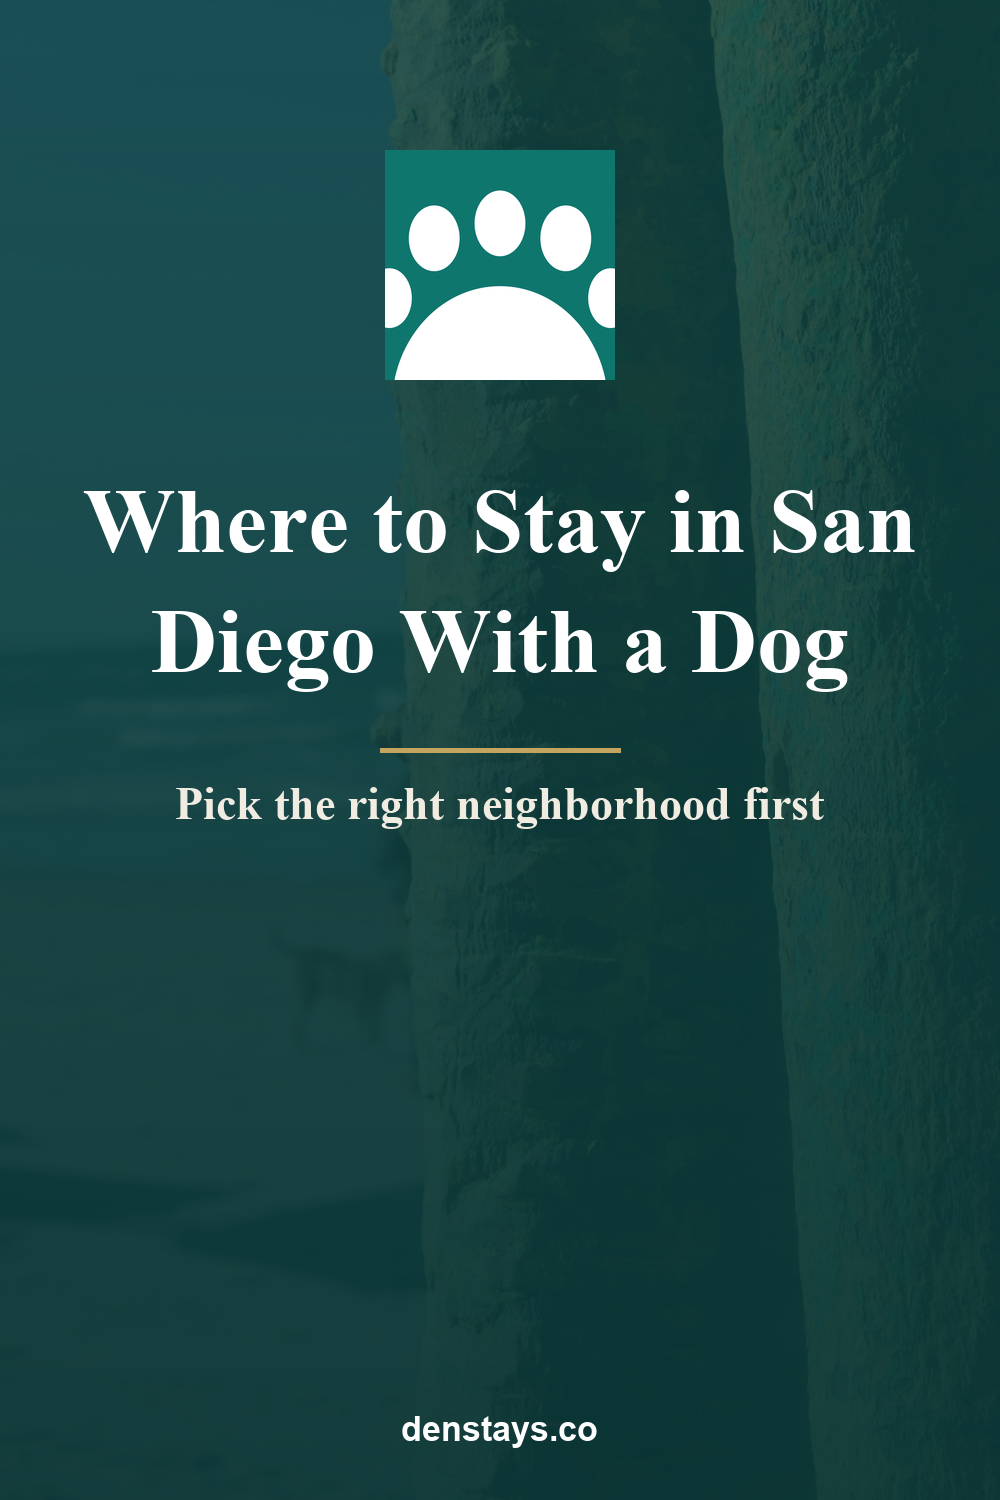
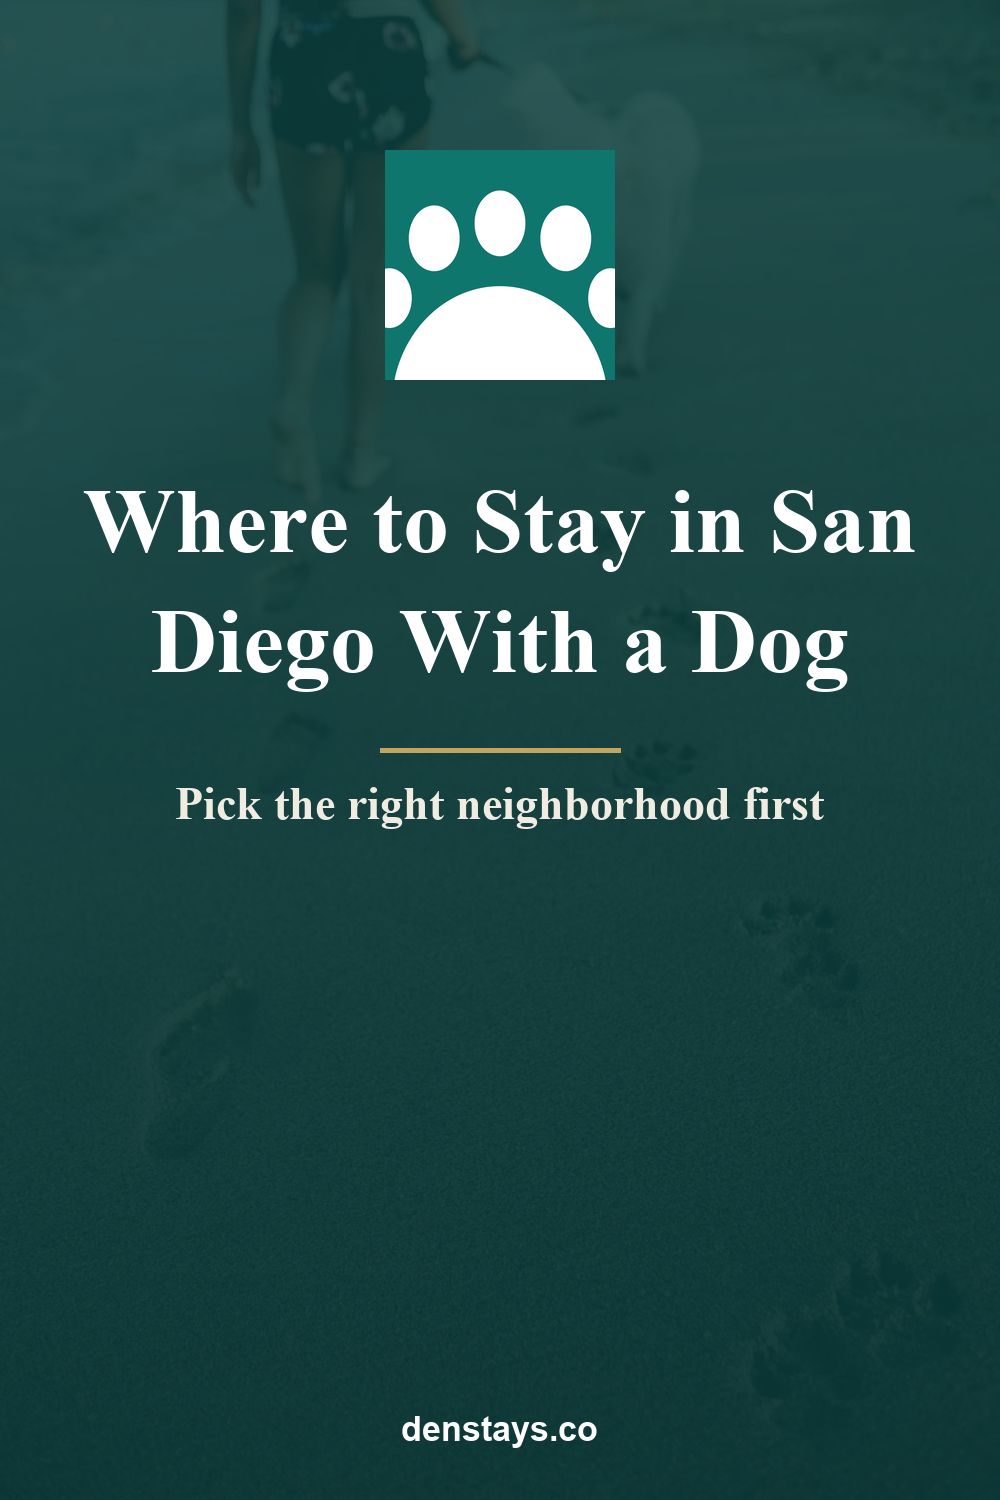
Re-render 3 pins with better photos + update gallery (7 new pins approved)

Changed region(s): [[0.217, 0.0, 0.434, 0.2147], [0.527, 0.0307, 0.713, 0.1227]]

diff --git a/pins/index.html b/pins/index.html
@@ -261,7 +261,7 @@ code { font-size:12px; color:#888; }
         <div class="card">
           <img src="denver-no-fee-no-limit.png" alt="Denver Hotels With No Pet Fee and No Weight Limit">
           <div class="meta">
-            <span class="status" style="background:#c4a560">draft</span>
+            <span class="status" style="background:#2e7d5b">ready</span>
             <span class="type">teal · no-fee-no-weight-limit</span>
             <h3>Denver Hotels With No Pet Fee and No Weight Limit</h3>
             <code>denver-no-fee-no-limit</code>
@@ -270,7 +270,7 @@ code { font-size:12px; color:#888; }
         <div class="card">
           <img src="austin-fee-per-night.png" alt="Austin Hotel Pet Fees: Per Night vs Per Stay">
           <div class="meta">
-            <span class="status" style="background:#c4a560">draft</span>
+            <span class="status" style="background:#2e7d5b">ready</span>
             <span class="type">band · fee-structure</span>
             <h3>Austin Hotel Pet Fees: Per Night vs Per Stay</h3>
             <code>austin-fee-per-night</code>
@@ -279,7 +279,7 @@ code { font-size:12px; color:#888; }
         <div class="card">
           <img src="charleston-weekend.png" alt="A Dog-Friendly Weekend in Charleston">
           <div class="meta">
-            <span class="status" style="background:#c4a560">draft</span>
+            <span class="status" style="background:#2e7d5b">ready</span>
             <span class="type">photo · weekend-trip</span>
             <h3>A Dog-Friendly Weekend in Charleston</h3>
             <code>charleston-weekend</code>
@@ -288,7 +288,7 @@ code { font-size:12px; color:#888; }
         <div class="card">
           <img src="scottsdale-paw-safe.png" alt="Scottsdale With a Dog: Beat the Hot Pavement">
           <div class="meta">
-            <span class="status" style="background:#c4a560">draft</span>
+            <span class="status" style="background:#2e7d5b">ready</span>
             <span class="type">band · seasonal-tips</span>
             <h3>Scottsdale With a Dog: Beat the Hot Pavement</h3>
             <code>scottsdale-paw-safe</code>
@@ -297,7 +297,7 @@ code { font-size:12px; color:#888; }
         <div class="card">
           <img src="san-diego-neighborhoods.png" alt="Where to Stay in San Diego With a Dog">
           <div class="meta">
-            <span class="status" style="background:#c4a560">draft</span>
+            <span class="status" style="background:#2e7d5b">ready</span>
             <span class="type">teal · neighborhood</span>
             <h3>Where to Stay in San Diego With a Dog</h3>
             <code>san-diego-neighborhoods</code>
@@ -306,7 +306,7 @@ code { font-size:12px; color:#888; }
         <div class="card">
           <img src="bend-lakes.png" alt="Pet-Friendly Bend Hotels Near Lakes and Trails">
           <div class="meta">
-            <span class="status" style="background:#c4a560">draft</span>
+            <span class="status" style="background:#2e7d5b">ready</span>
             <span class="type">photo · outdoor-recreation</span>
             <h3>Pet-Friendly Bend Hotels Near Lakes and Trails</h3>
             <code>bend-lakes</code>
@@ -315,7 +315,7 @@ code { font-size:12px; color:#888; }
         <div class="card">
           <img src="asheville-big-dogs.png" alt="Asheville Hotels That Welcome Big Dogs">
           <div class="meta">
-            <span class="status" style="background:#c4a560">draft</span>
+            <span class="status" style="background:#2e7d5b">ready</span>
             <span class="type">photo · weight-limits</span>
             <h3>Asheville Hotels That Welcome Big Dogs</h3>
             <code>asheville-big-dogs</code>
